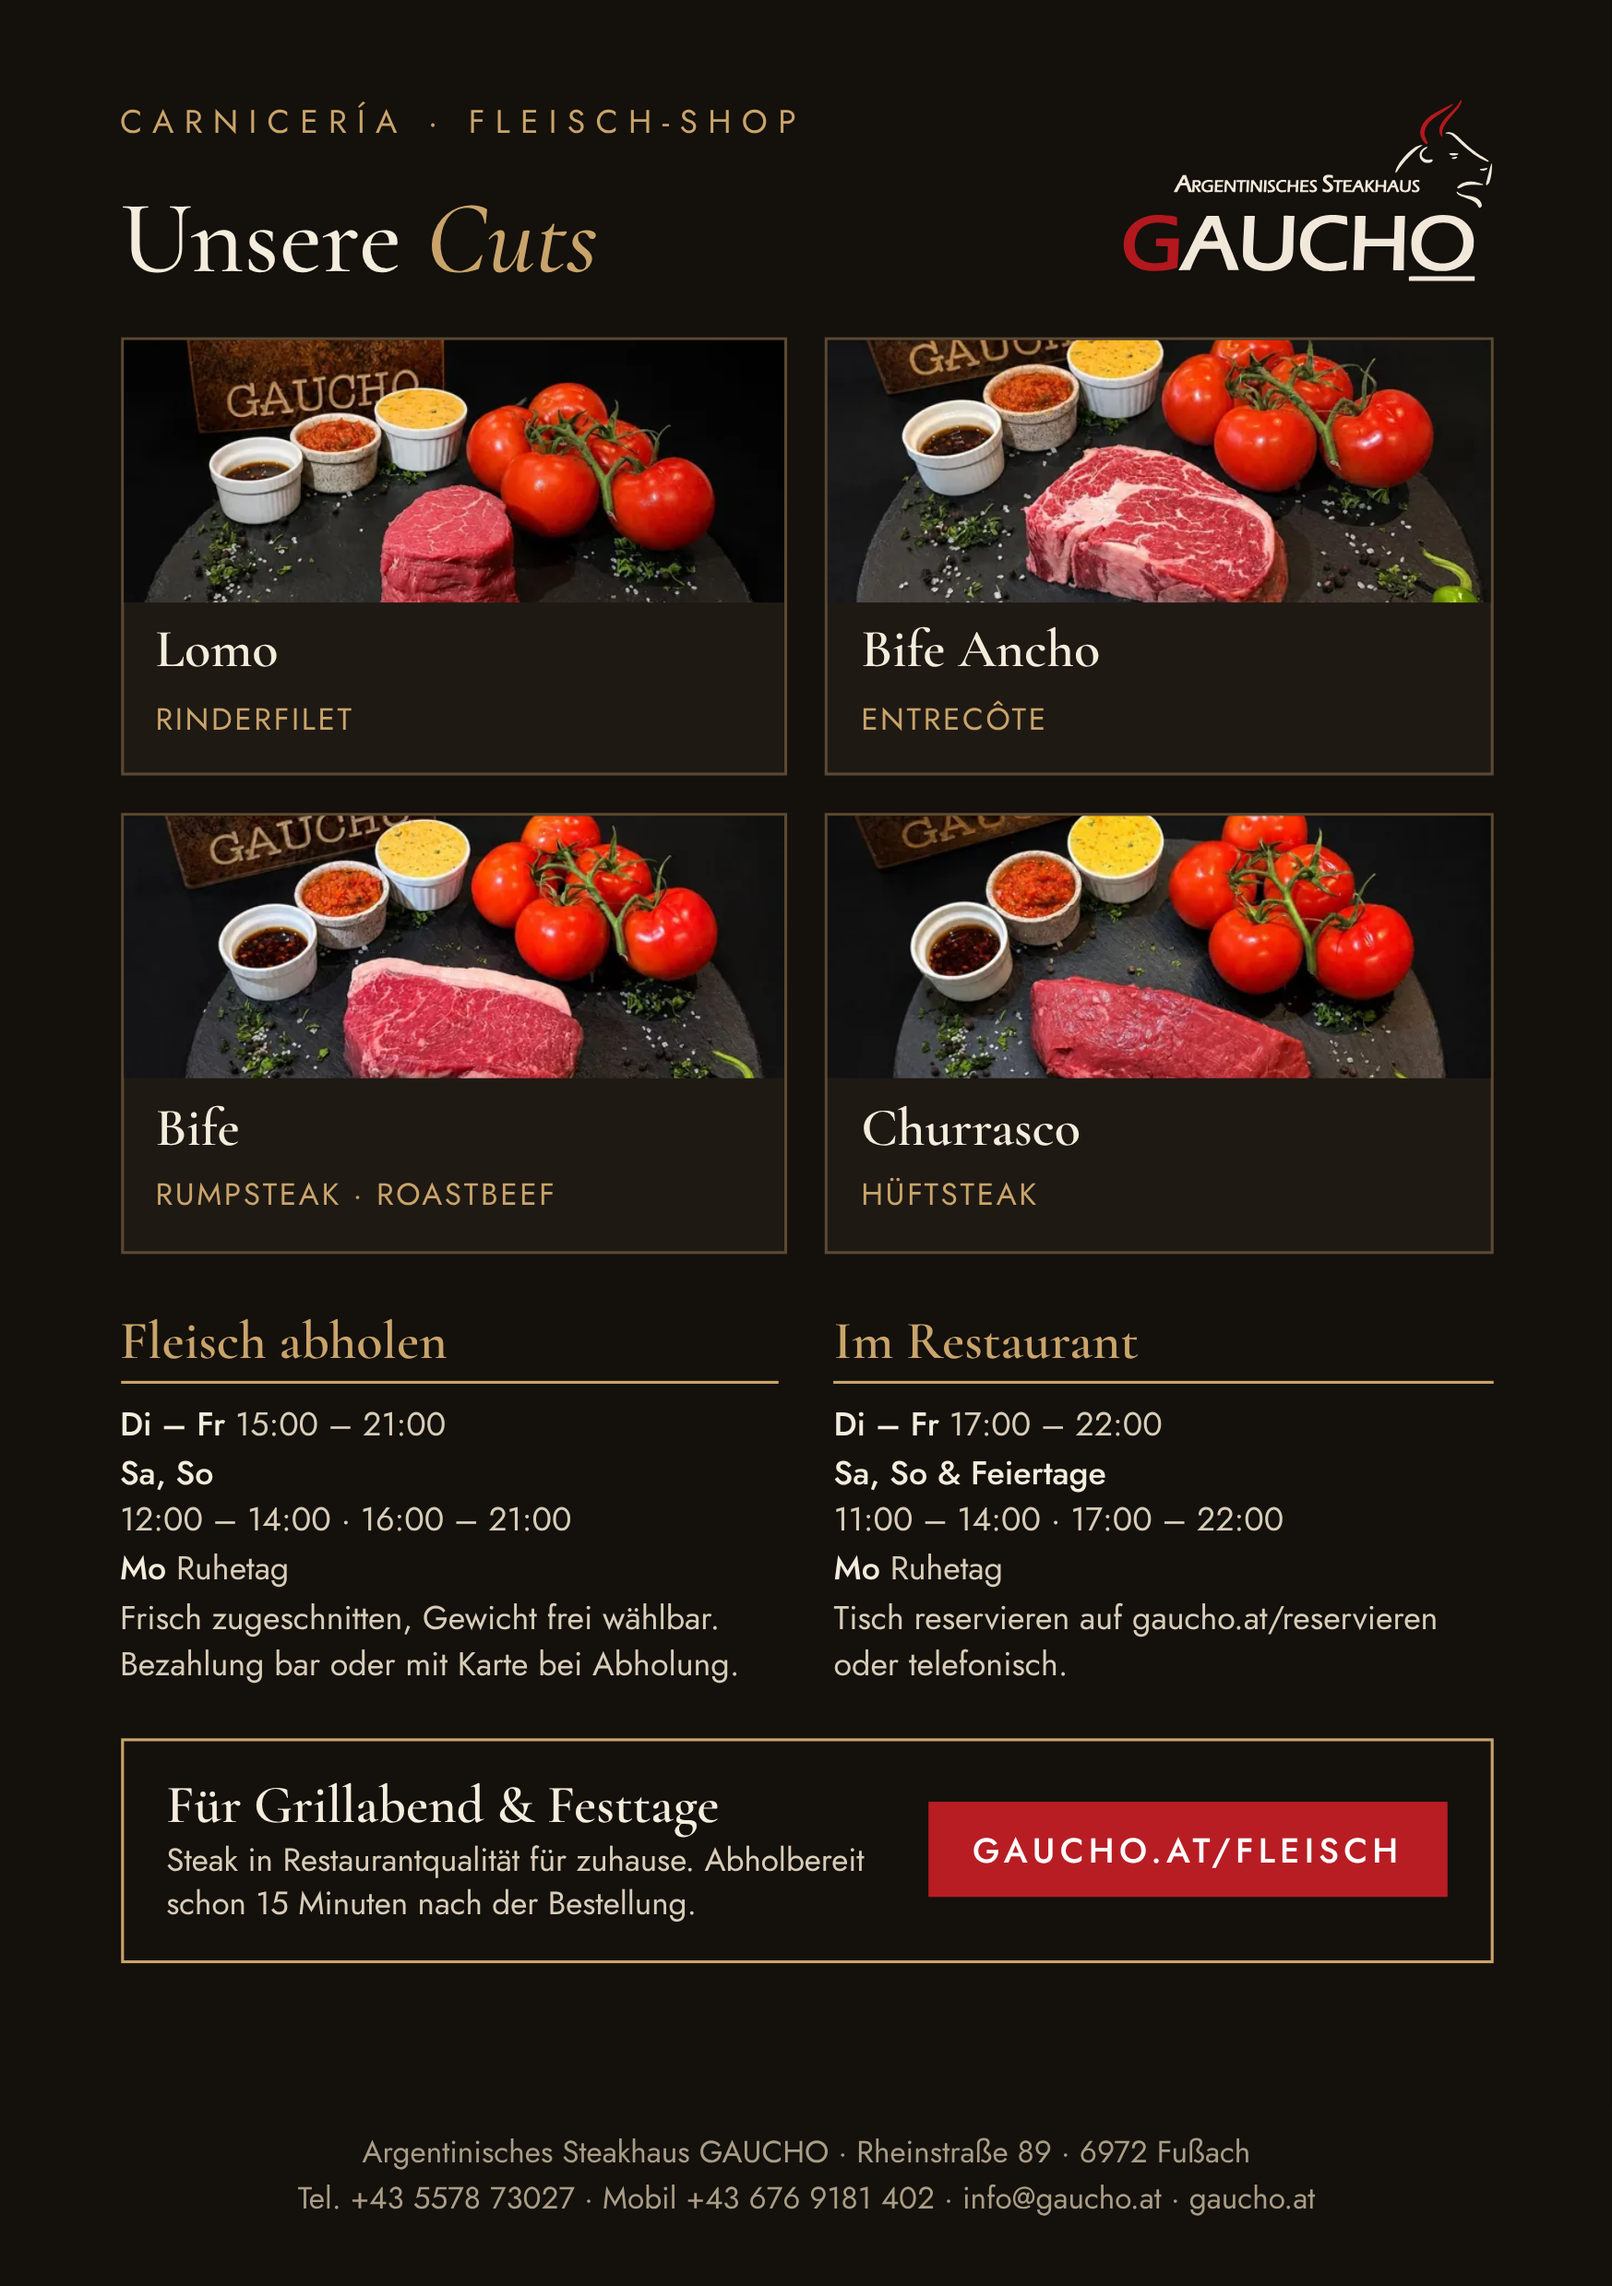
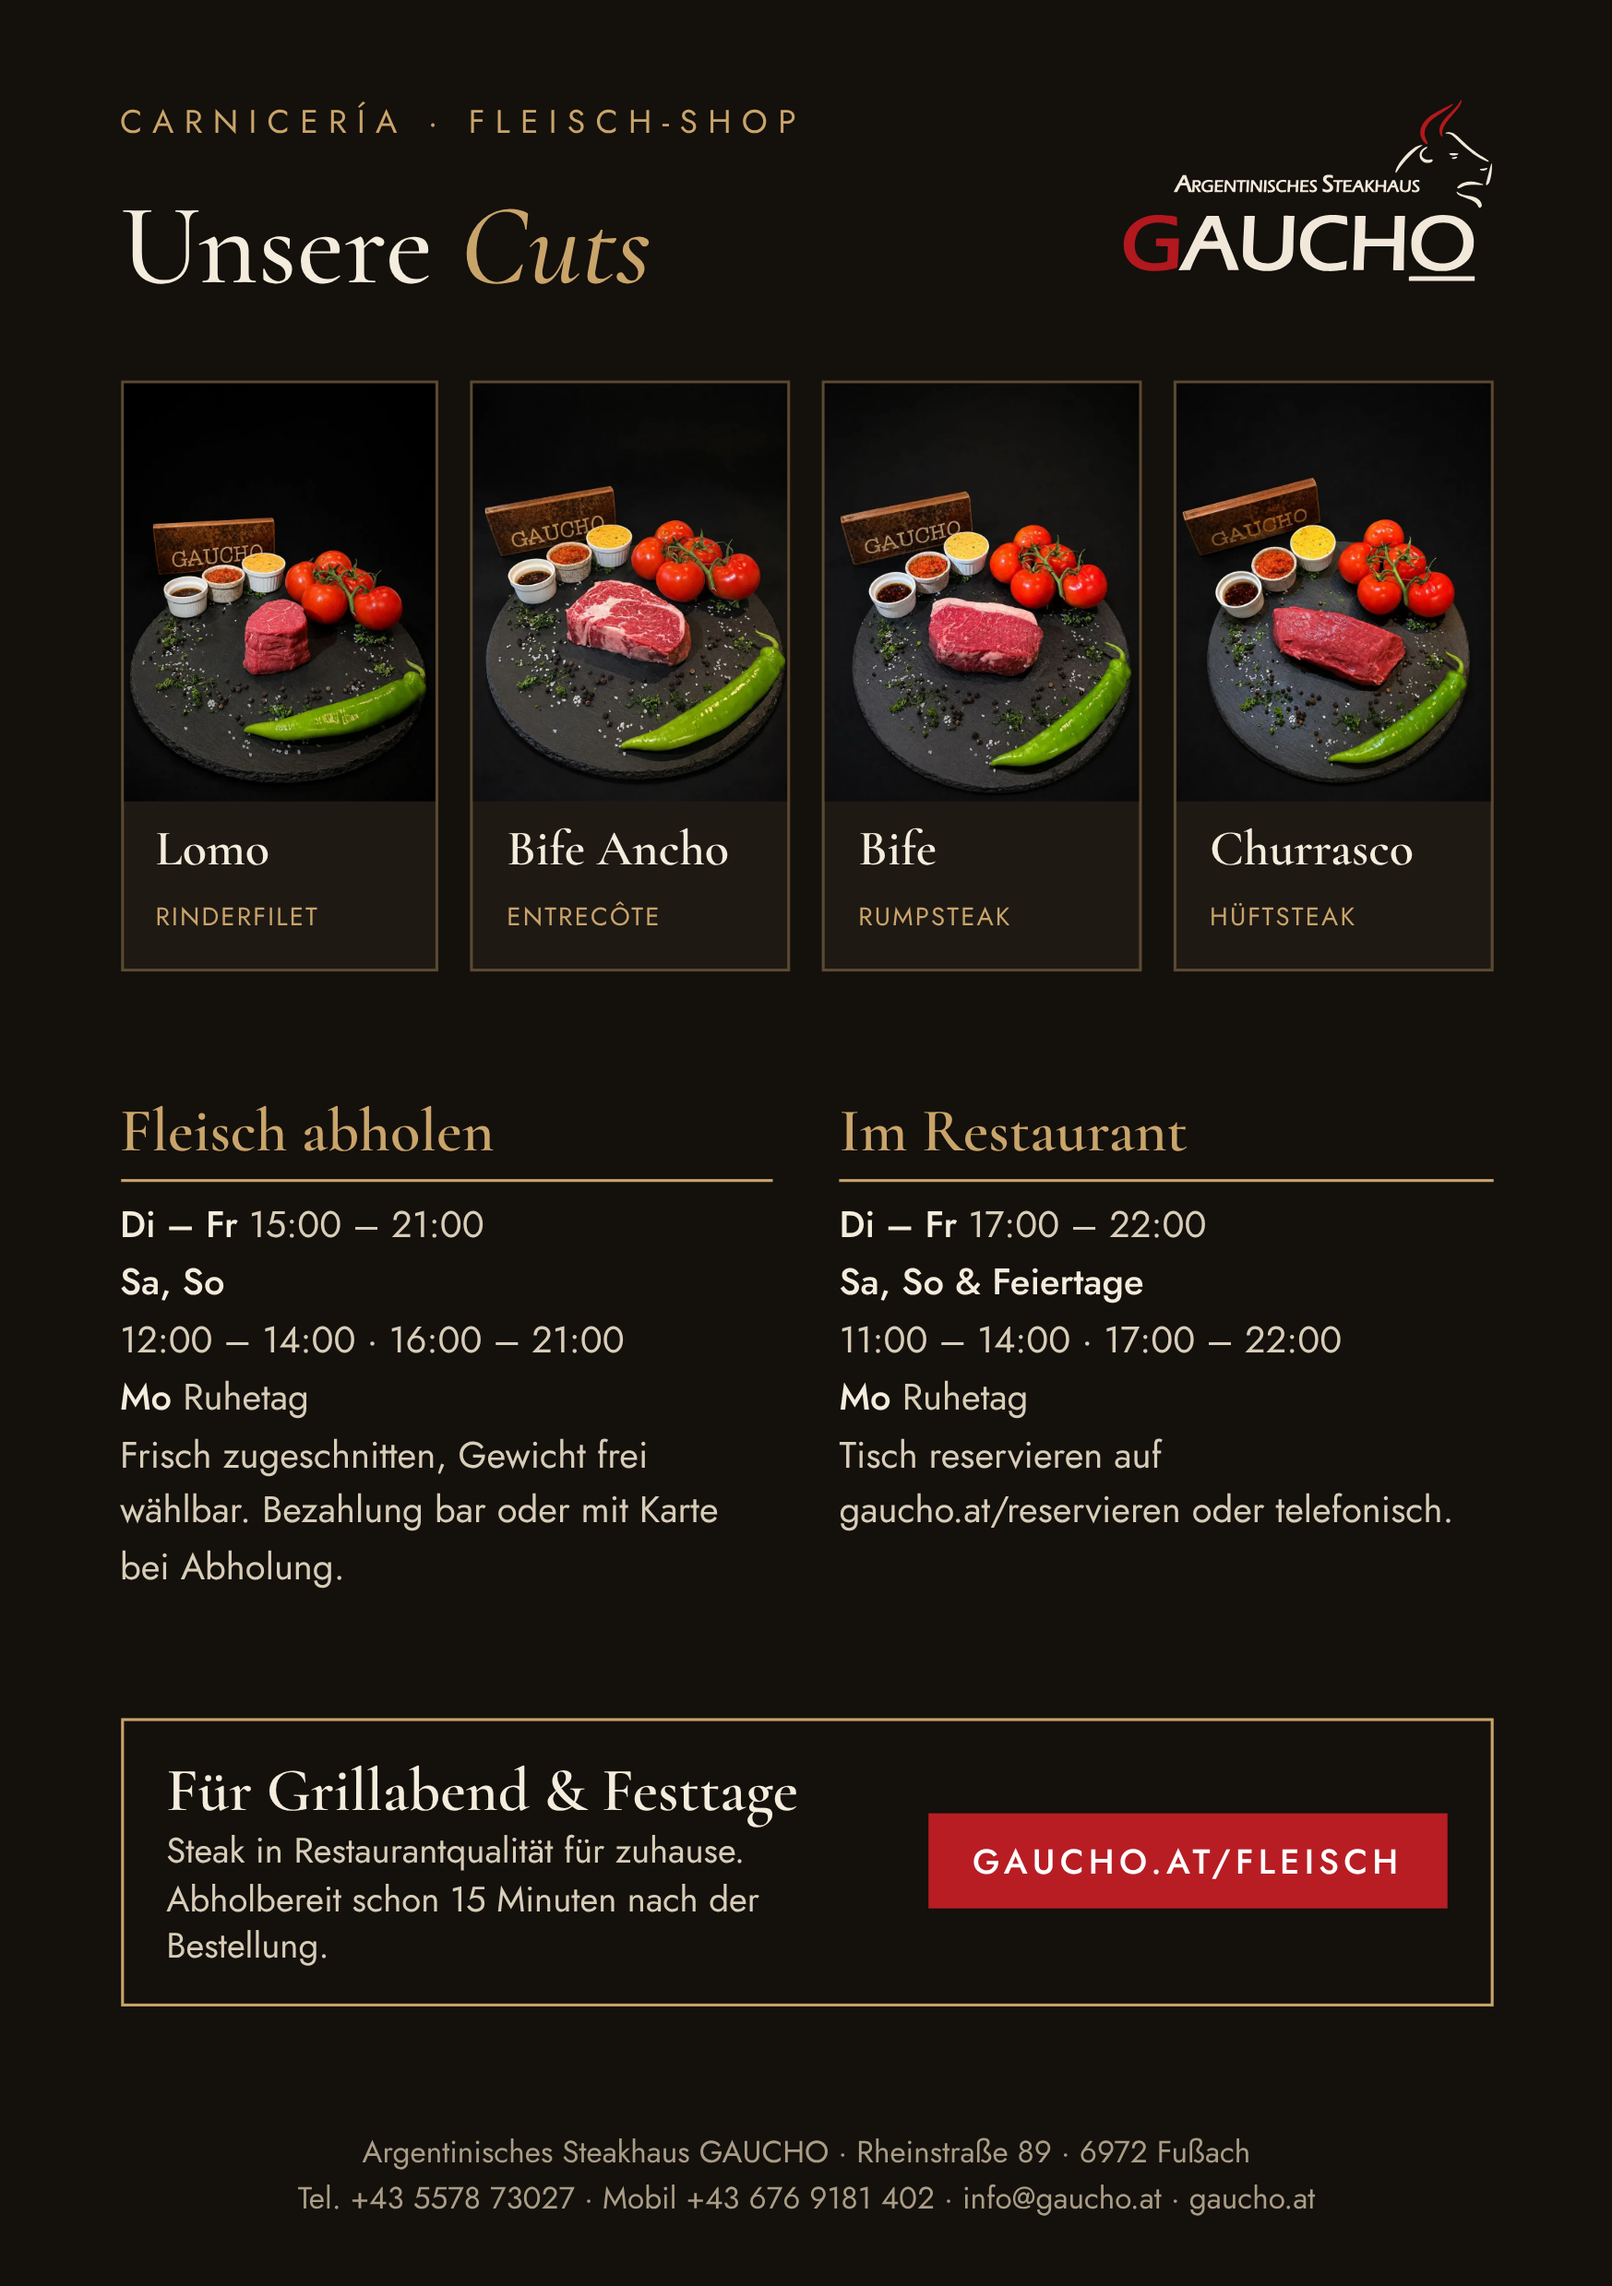
Flyer-Rückseite: Fleischbilder vollständig statt abgeschnitten
Claude-Session: https://claude.ai/code/session_01YbDbssFw5gtfydQv6mVBaH

Changed region(s): [[0.0618, 0.0932, 0.9273, 0.8701], [0.8964, 0.4972, 0.9273, 0.5282], [0.8037, 0.5593, 0.8346, 0.5904]]

diff --git a/flyer/rueckseite.html b/flyer/rueckseite.html
@@ -27,29 +27,29 @@ h1 em{color:#c9a46a}
 .r{padding:9mm 11mm 0;flex:1;display:flex;flex-direction:column}
 .kopf{display:flex;justify-content:space-between;align-items:flex-start}
 .kopf img{width:34mm}
-h1.k{font-size:27pt;margin:4mm 0 4mm}
-.cuts{display:grid;grid-template-columns:1fr 1fr;gap:3.5mm}
+h1.k{font-size:30pt;margin:4mm 0 7mm}
+.cuts{display:grid;grid-template-columns:repeat(4,1fr);gap:3mm}
 .cut{background:#1f1914;border:.25mm solid rgba(201,164,106,.35)}
-.cut .b{height:24mm;background-size:cover;background-position:center}
+.cut .b{aspect-ratio:3/4;background-size:cover;background-position:center}
 .cut .t{padding:2mm 3mm 2.5mm}
-.cut b{font-family:'Cormorant Garamond',serif;font-size:14pt;font-weight:600;display:block;line-height:1.05}
-.cut span{font-size:8pt;color:#c9a46a;letter-spacing:.08em}
-.zwei{display:grid;grid-template-columns:1fr 1fr;gap:5mm;margin-top:5mm}
-.zwei h3{font-family:'Cormorant Garamond',serif;font-size:14pt;font-weight:600;color:#c9a46a;border-bottom:.3mm solid #c9a46a;padding-bottom:1mm;margin-bottom:1.5mm}
-.zwei p{font-size:8.6pt;line-height:1.45;color:#d8cdb8}
+.cut b{font-family:'Cormorant Garamond',serif;font-size:13pt;font-weight:600;display:block;line-height:1.05}
+.cut span{font-size:6.6pt;color:#c9a46a;letter-spacing:.08em}
+.zwei{display:grid;grid-template-columns:1fr 1fr;gap:6mm;margin-top:11mm}
+.zwei h3{font-family:'Cormorant Garamond',serif;font-size:16pt;font-weight:600;color:#c9a46a;border-bottom:.3mm solid #c9a46a;padding-bottom:1mm;margin-bottom:1.5mm}
+.zwei p{font-size:9.6pt;line-height:1.55;color:#d8cdb8}
 .zwei strong{color:#f4ecdc;font-weight:500}
-.gh{margin-top:4.5mm;border:.3mm solid #c9a46a;padding:3mm 4mm;display:flex;justify-content:space-between;align-items:center;gap:4mm}
-.gh b{font-family:'Cormorant Garamond',serif;font-size:14pt;font-weight:600}
-.gh p{font-size:8.4pt;color:#d8cdb8;line-height:1.35}
+.gh{margin-top:11mm;border:.3mm solid #c9a46a;padding:3mm 4mm;display:flex;justify-content:space-between;align-items:center;gap:4mm}
+.gh b{font-family:'Cormorant Garamond',serif;font-size:16pt;font-weight:600}
+.gh p{font-size:9.2pt;color:#d8cdb8;line-height:1.35}
 .gh .url{margin:0;white-space:nowrap;font-size:9pt}
 .fuss{margin-top:auto;padding-top:4mm}
 </style></head><body><div class="f"><div class="r">
 <div class="kopf"><div><div class="kicker">Carnicería · Fleisch-Shop</div><h1 class="k">Unsere <em>Cuts</em></h1></div><img src="logo-hell.svg" alt=""></div>
 <div class="cuts">
- <div class="cut"><div class="b" style="background-image:url(bilder/lomo-600.webp)"></div><div class="t"><b>Lomo</b><span>RINDERFILET</span></div></div>
- <div class="cut"><div class="b" style="background-image:url(bilder/entrecote-600.webp)"></div><div class="t"><b>Bife Ancho</b><span>ENTRECÔTE</span></div></div>
- <div class="cut"><div class="b" style="background-image:url(bilder/rumpsteak-600.webp)"></div><div class="t"><b>Bife</b><span>RUMPSTEAK · ROASTBEEF</span></div></div>
- <div class="cut"><div class="b" style="background-image:url(bilder/churrasco-600.webp)"></div><div class="t"><b>Churrasco</b><span>HÜFTSTEAK</span></div></div>
+ <div class="cut"><div class="b" style="background-image:url(bilder/lomo-900.webp)"></div><div class="t"><b>Lomo</b><span>RINDERFILET</span></div></div>
+ <div class="cut"><div class="b" style="background-image:url(bilder/entrecote-900.webp)"></div><div class="t"><b>Bife Ancho</b><span>ENTRECÔTE</span></div></div>
+ <div class="cut"><div class="b" style="background-image:url(bilder/rumpsteak-900.webp)"></div><div class="t"><b>Bife</b><span>RUMPSTEAK</span></div></div>
+ <div class="cut"><div class="b" style="background-image:url(bilder/churrasco-900.webp)"></div><div class="t"><b>Churrasco</b><span>HÜFTSTEAK</span></div></div>
 </div>
 <div class="zwei">
  <div><h3>Fleisch abholen</h3><p><strong>Di – Fr</strong> 15:00 – 21:00<br><strong>Sa, So</strong><br>12:00 – 14:00 · 16:00 – 21:00<br><strong>Mo</strong> Ruhetag<br>Frisch zugeschnitten, Gewicht frei wählbar. Bezahlung bar oder mit Karte bei Abholung.</p></div>
